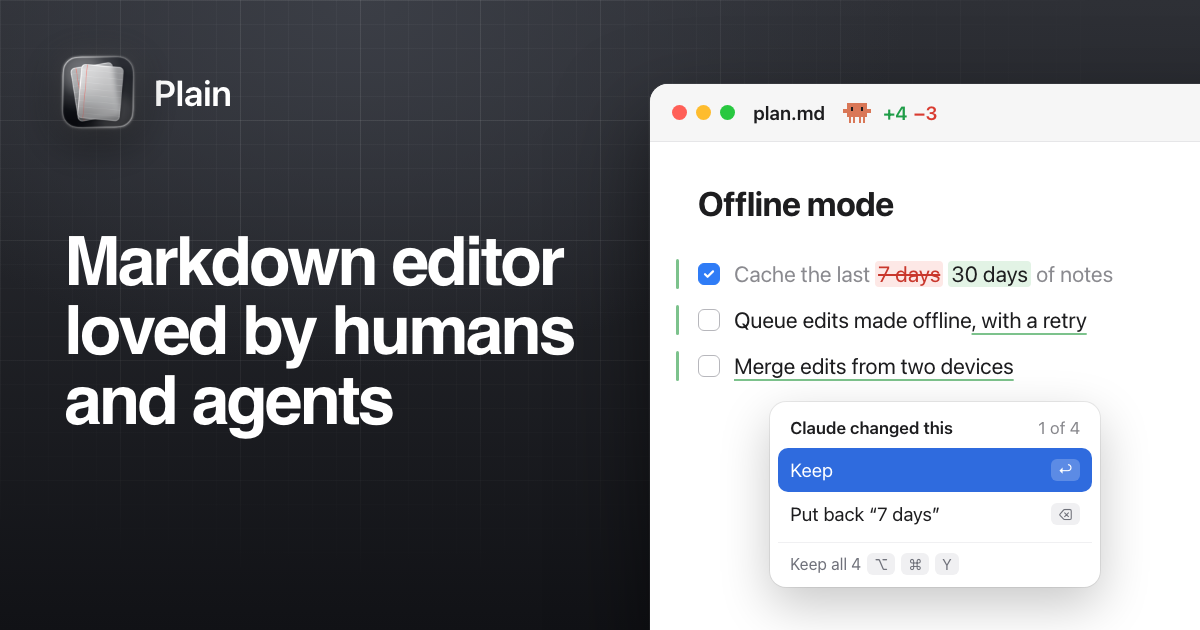
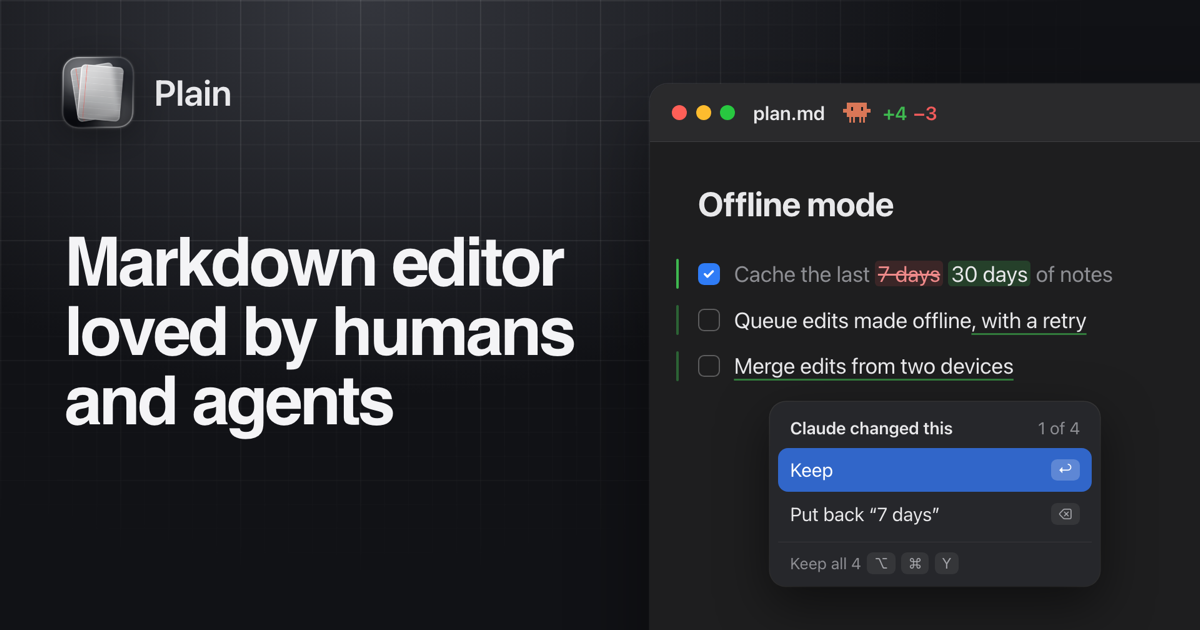
Link card in dark mode: the window blends into the ground
Plain's own dark colours for the editor, the change marks and the Keep /
Put back card, so the window sits in the graphite instead of a white block.

Claude-Session: https://claude.ai/code/session_01XbxKgvtwVa4tKWioGvjmmH

diff --git a/index.html b/index.html
@@ -9,12 +9,12 @@
 <meta property="og:url" content="https://plainmac.com/">
 <meta property="og:title" content="Plain, the light, fast Markdown editor for humans">
 <meta property="og:description" content="A tiny native Mac app to read and edit Markdown, made for the files your agents write. Free.">
-<meta property="og:image" content="https://plainmac.com/plain-card.png?v=2">
+<meta property="og:image" content="https://plainmac.com/plain-card.png?v=3">
 <meta property="og:image:width" content="1200">
 <meta property="og:image:height" content="630">
 <meta property="og:image:alt" content="Plain, the Markdown editor loved by humans and agents. A Plain window shows Claude's edit to review: Keep or Put back.">
 <meta name="twitter:card" content="summary_large_image">
-<meta name="twitter:image" content="https://plainmac.com/plain-card.png?v=2">
+<meta name="twitter:image" content="https://plainmac.com/plain-card.png?v=3">
 <style>:root { padding-top: env(safe-area-inset-top, 0px); padding-bottom: env(safe-area-inset-bottom, 0px); } img { max-width: 100%; }</style>
 <title>Plain, Markdown for humans</title>
 <meta name="claude:viewport-fit-sides" content="cover">
